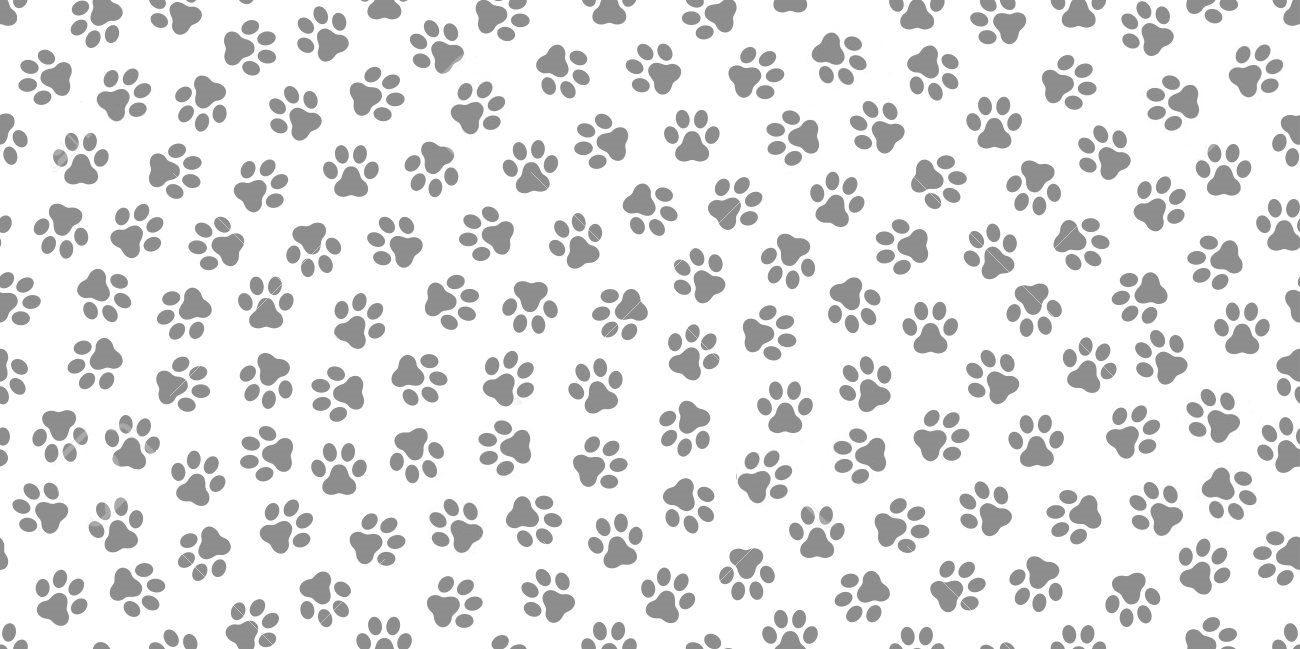
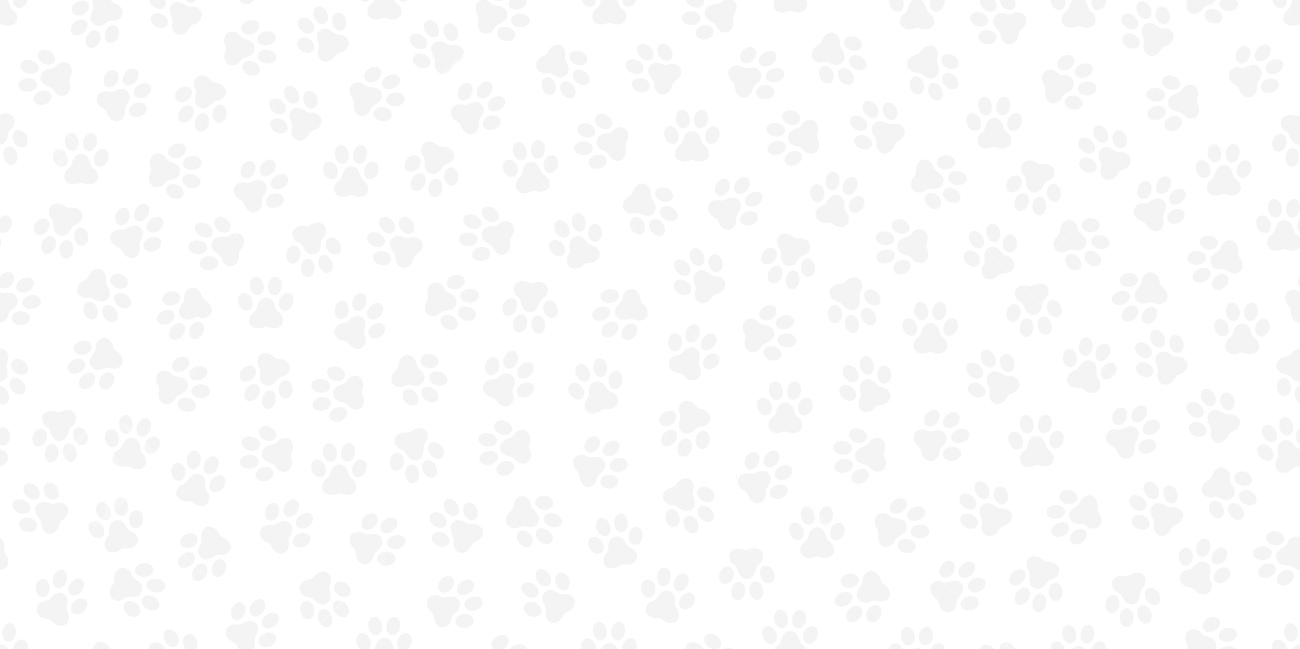
Homepage ux changes, blog page button problem fixed, wallpaper fixed

diff --git a/users/templates/users/homepage.html b/users/templates/users/homepage.html
@@ -5,57 +5,16 @@
 
     <div class="web-app">
 
-        <div class="app-canvas">
+        <div class="app-canvas" style="background-color: #d33d61; height: 1900px">
             <div class="main-banner imgAsBg hero-banner"
-                 style="background-image: url('{% static 'images/slideDog.jpg' %}'); height: 582.43px;">
-                <img src="{% static 'images/slideDog.jpg' %}" alt="dummy">
-                <div class="inner">
+                 style="background-image: url('{% static 'images/DogDog.jpg' %}'); height: 1900px">
 
-                </div>
-            </div>
-            <!-- profile, announcements (lost, adopt,found) -->
+                <!-- profile, announcements (lost, adopt,found) -->
             <div class="section">
                 <div class="container">
                     <div class="heading text-center">
                     </div>
-                    <!-- profile , announcements -->
-                    <div class="category-thumbs clearfix">
-                        <div class="cat-thumb">
-                            <img src="{% static 'images/lostpetnew.jpg' %}" alt="dummy" style="border-radius: 10%;">
-                            <a href="">go to category</a>
-                            <div class="cat-caption">
-                                <div class="bg2" style="border-radius: 50%;">
-                                    <h3 style="font-size: 16px;">Lost Anoucements</h3>
-                                    <span>2,768 Anouncements</span>
-                                </div>
-                            </div>
-                        </div>
-                        <div class="cat-thumb">
-                            <img src="{% static 'images/adoptnew.jpg' %}" alt="dummy" style="border-radius: 10%;">
-                            <a href="">go to category</a>
-                            <div class="cat-caption">
-                                <div class="bg2" style="border-radius: 50%;">
-                                    <h3 style="font-size: 16px;">Adoptment Anoucements</h3>
-                                    <span>2,768 Anouncements</span>
-                                </div>
-                            </div>
-                        </div>
-                        <div class="cat-thumb">
-                            <img src="{% static 'images/foundednew.jpg' %}" alt="dummy" style="border-radius: 10%;">
-                            <a href="">go to category</a>
-                            <div class="cat-caption">
-                                <div class="bg2" style="border-radius: 50%;">
-                                    <h3 style="font-size: 16px;">Founded Anouncements</h3>
-                                    <span>2,768 Anouncements</span>
-                                </div>
-                            </div>
-                        </div>
-                    </div>
-                </div>
-            </div>
-        </div>
-        <hr style="margin-bottom:30px">
-        <!-- blog, post cards -->
+                                <!-- blog, post cards -->
         <div class="container" style="margin-bottom:10%">
             <div class="row">
                 <div clasS="col-md-6">
@@ -67,7 +26,7 @@
                                     <h5 class="mb-0" style="margin-left:10px" type="button">Blog</h5></a>
                                 </div>
                                 {% for blog in blogs %}
-                                <a href="{% url 'blog-detail' blog.id %}" class="latest-post" style="margin-left:10px">
+                                <a href="{% url 'blog-detail' blog.id %}" class="latest-post" style="margin-left:10px;text-align: left;">
                                 {% if blog.blog_image == '' %}
                                     <figure class="imgAsBg"
                                             style="background-image: url('{% static 'images/dog1.jpg' %}');">
@@ -142,6 +101,48 @@
 
 
         </div>
+
+                </div>
+            </div>
+                <div class="inner" style="margin-top: -140px;">
+                    <!-- announcements -->
+                    <div class="category-thumbs clearfix" style="margin-top: 10px;max-width: 69%;margin-left: 267px;">
+                        <div class="cat-thumb">
+                            <img src="{% static 'images/lostpetnew.jpg' %}" alt="dummy" style="border-radius: 10%;">
+                            <a href="">go to category</a>
+                            <div class="cat-caption">
+                                <div class="bg2" style="border-radius: 50%;">
+                                    <h3 style="font-size: 16px;">Lost Anoucements</h3>
+                                    <span>2,768 Anouncements</span>
+                                </div>
+                            </div>
+                        </div>
+                        <div class="cat-thumb">
+                            <img src="{% static 'images/adoptnew.jpg' %}" alt="dummy" style="border-radius: 10%;">
+                            <a href="">go to category</a>
+                            <div class="cat-caption">
+                                <div class="bg2" style="border-radius: 50%;">
+                                    <h3 style="font-size: 16px;">Adoptment Anoucements</h3>
+                                    <span>2,768 Anouncements</span>
+                                </div>
+                            </div>
+                        </div>
+                        <div class="cat-thumb">
+                            <img src="{% static 'images/foundednew.jpg' %}" alt="dummy" style="border-radius: 10%;">
+                            <a href="">go to category</a>
+                            <div class="cat-caption">
+                                <div class="bg2" style="border-radius: 50%;">
+                                    <h3 style="font-size: 16px;">Founded Anouncements</h3>
+                                    <span>2,768 Anouncements</span>
+                                </div>
+                            </div>
+                        </div>
+                    </div>
+                </div>
+            </div>
+
+        </div>
+
         <!-- footer  -->
         <footer class="doc-footer style2">
             <div class="row">

diff --git a/users/templates/users/profile.html b/users/templates/users/profile.html
@@ -110,8 +110,8 @@
                                     <hr>
                                 </header>
                                 {% for blog in blogs %}
-                                    <div style="display: flex;">
-                                        <div style="text-align: left;">
+                                    <div style="display: flex; justify-content: space-between;">
+                                        <div style="text-align: left;width: 345px;">
                                             <a href="{% url 'blog-detail' blog.id %}" class="latest-post">
                                                 {% if blog.blog_image == '' %}
                                                     <img style="border-radius: 70%;height: 70px;width: 70px;"
@@ -127,7 +127,7 @@
                                         </div>
                                     <a href="{% url 'blog-edit' blog.id %}">
                                         <input value="Edit" type="button" class="btn btn-info"
-                                               style="margin-top: 10px;border-radius: 12%;padding: 0px 10px;height: 35px; margin-right: 4px;margin-left: 50px;"></a>
+                                               style="margin-top: 10px;border-radius: 12%;padding: 0px 10px;height: 35px;margin-left: 50px;"></a>
                                         <input value="Delete" type="button" class="btn btn-danger"
                                                style="margin-top: 10px;border-radius: 12%;padding: 0px 10px;height: 35px;">
                                     </div>

diff --git a/static/styles/home.css b/static/styles/home.css
@@ -1568,7 +1568,7 @@ a.link.link-pink {
 	background:#4693d3 !important
 }
 .bg2,.bg2-icon-wrap:hover span,.bg2-icon-wrap.active span {
-	background:#DF4A70 !important
+	background:#f7aabd !important
 }
 .bg3,.bg3-icon-wrap:hover span,.bg3-icon-wrap.active span {
 	background:#ffaf02 !important
